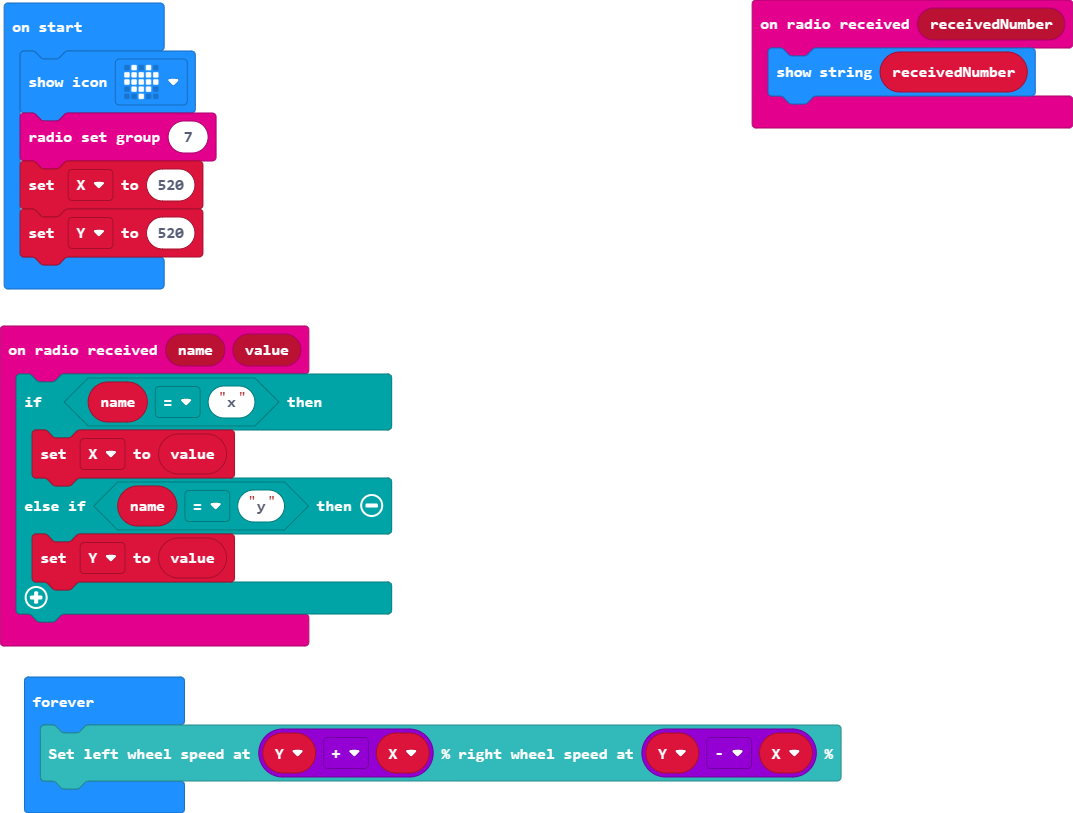
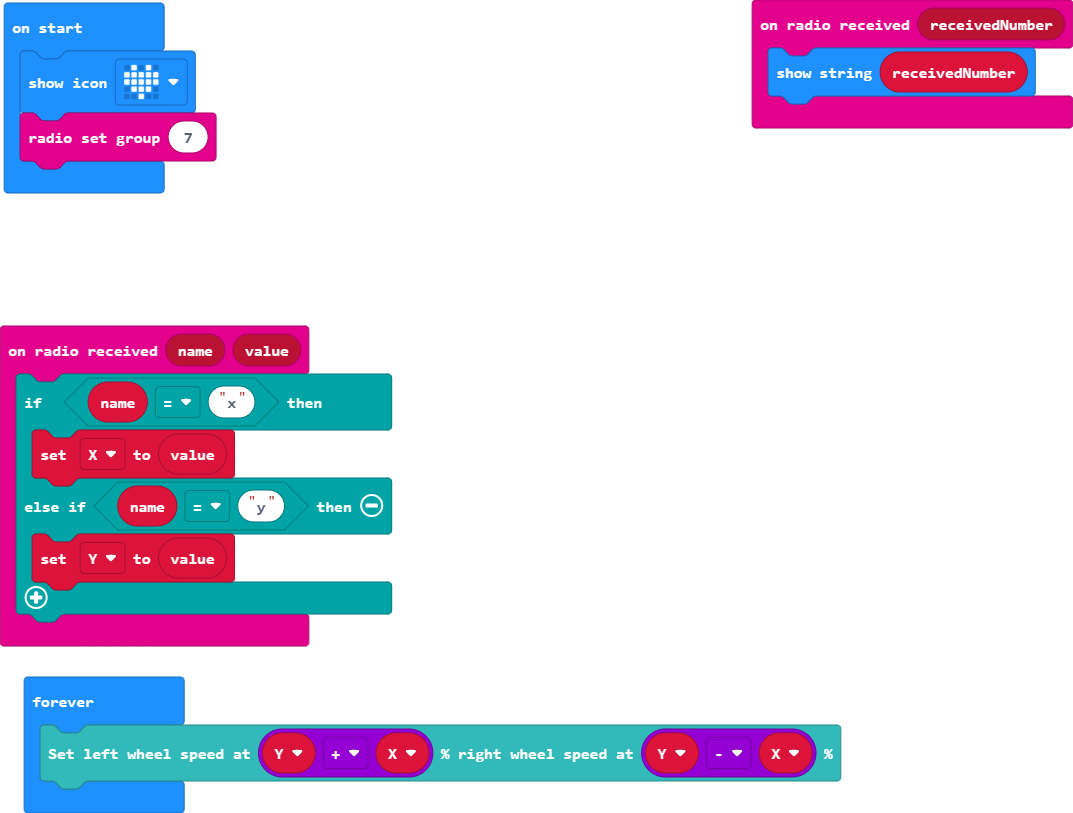
Update main.blocks, main.ts

diff --git a/main.ts b/main.ts
@@ -12,8 +12,6 @@ let Y = 0
 let X = 0
 basic.showIcon(IconNames.Heart)
 radio.setGroup(7)
-X = 520
-Y = 520
 basic.forever(function () {
     TPBot.setWheels(Y + X, Y - X)
 })
